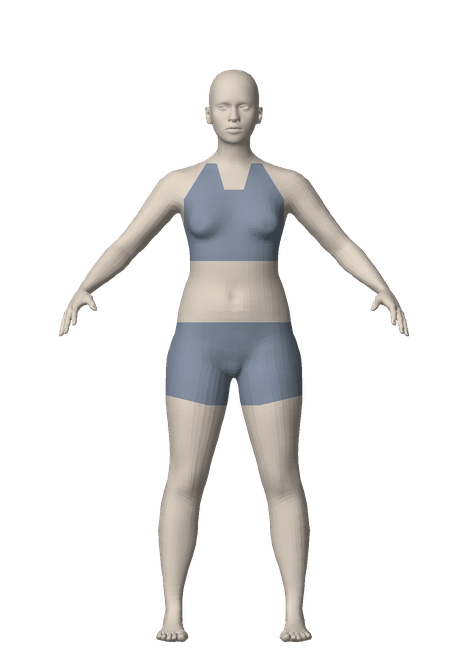
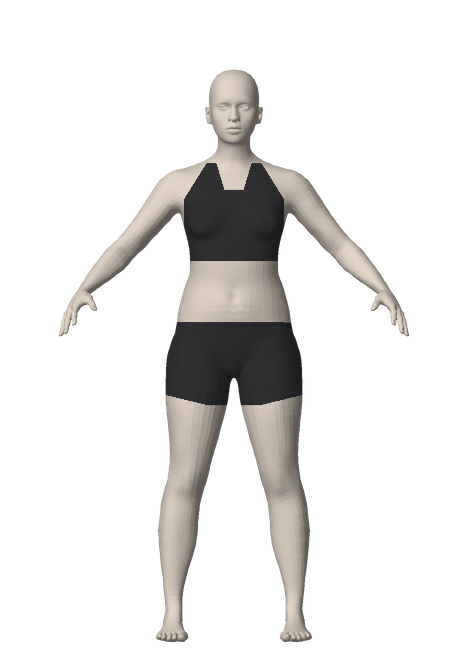
Avataro baziniai apatiniai – juodi visoms 10 figūrų (ir generatoriuje)
Claude-Session: https://claude.ai/code/session_01Bz1C2v76Sa9zGjjp5KY28X

Changed region(s): [[0.3291, 0.4938, 0.6581, 0.6481], [0.3889, 0.2469, 0.6282, 0.4012]]

diff --git a/tools/mh_wardrobe.py b/tools/mh_wardrobe.py
@@ -177,7 +177,7 @@ W_UNITS, H_UNITS = 13.0, 18.0
 W, H = int(W_UNITS * PX * SS), int(H_UNITS * PX * SS)
 LIGHT = np.array([-0.35, 0.45, 0.82]); LIGHT /= np.linalg.norm(LIGHT)
 SKIN = np.array([226, 214, 200], float)
-UNDER = np.array([138, 150, 168], float)
+UNDER = np.array([46, 46, 52], float)   # juodi apatiniai (anksčiau pilkai mėlyni)
 CLOTH = np.array([236, 236, 236], float)   # pilka bazė – naršyklė padaugina iš spalvos
 
 _edges = np.concatenate([faces[:, [k, (k + 1) % 4]] for k in range(4)])
